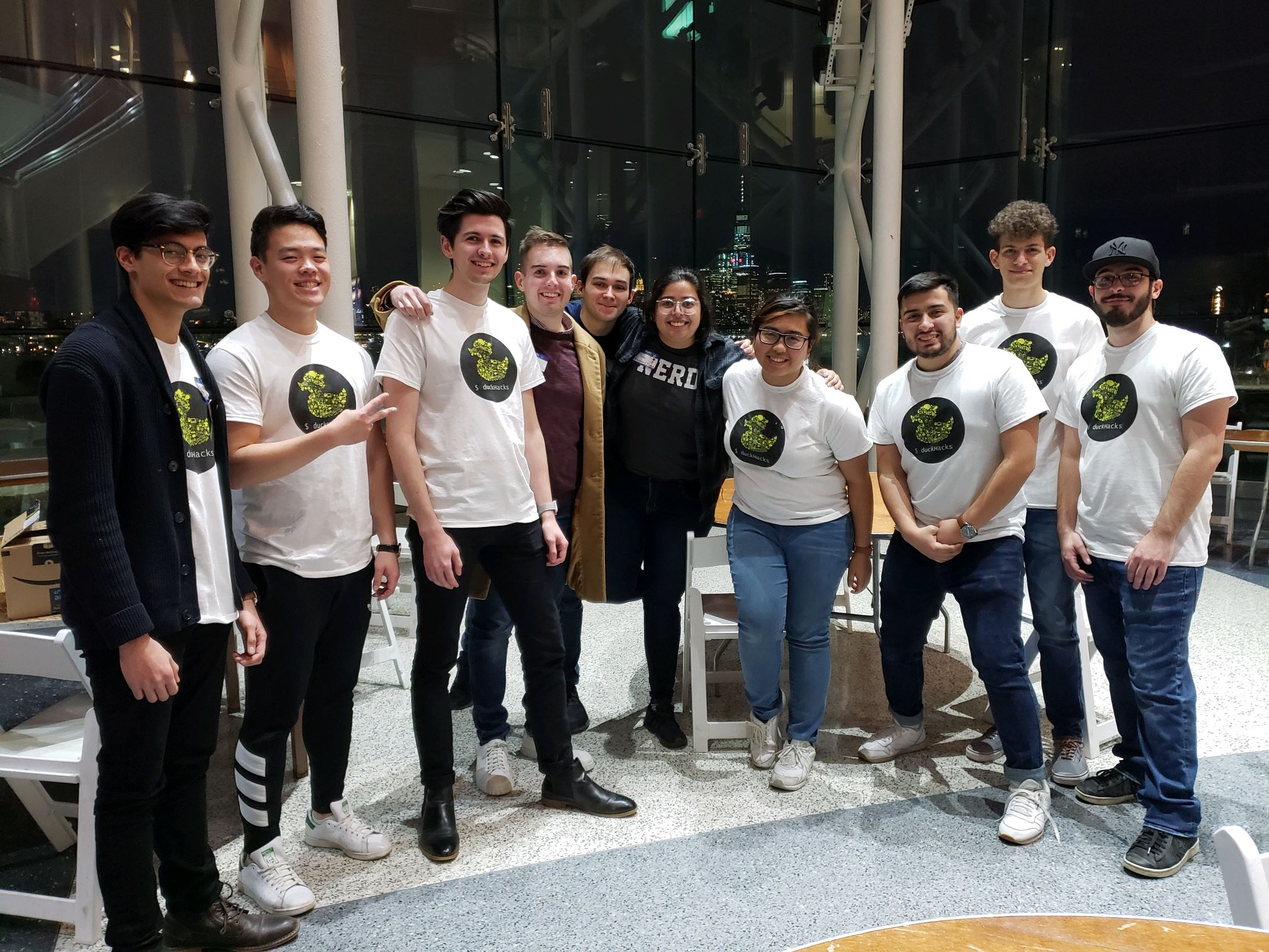
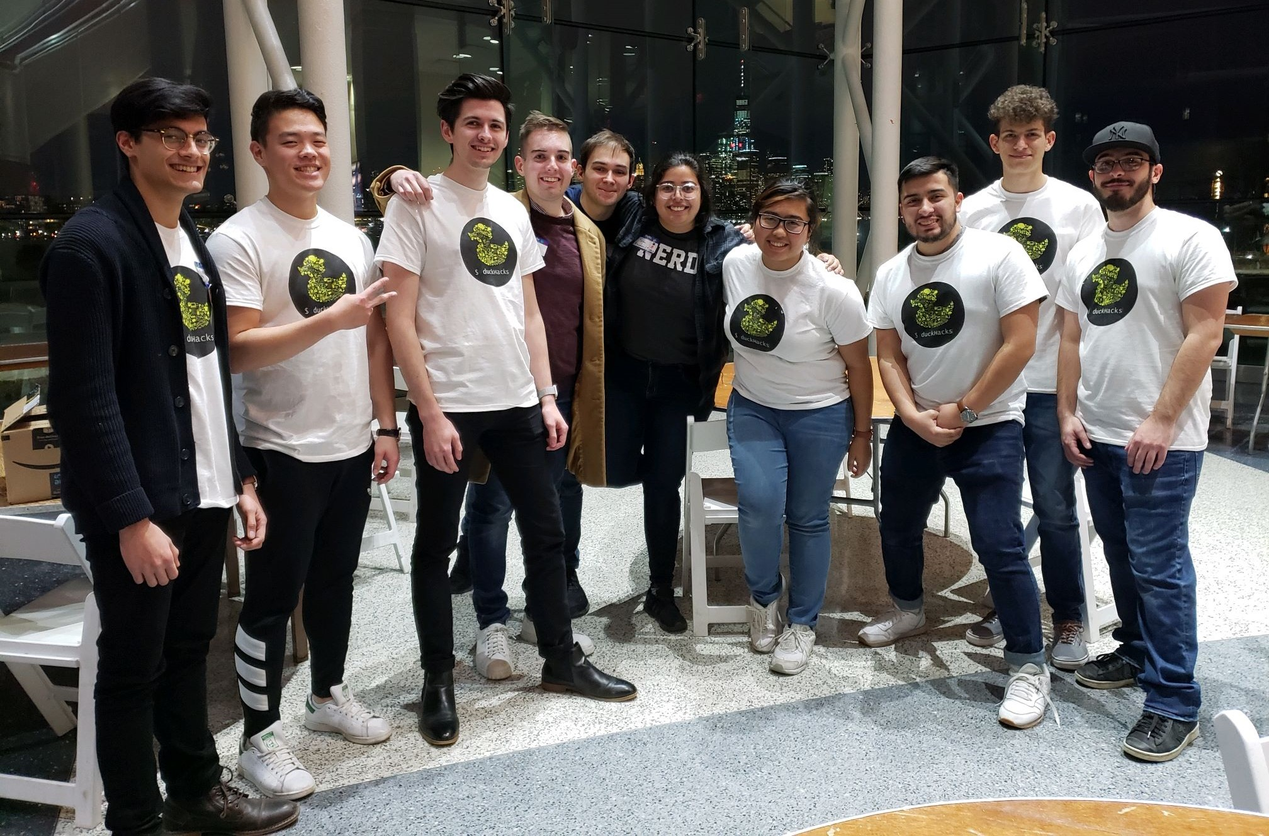
wrote why come to duckhacks section

diff --git a/index.html b/index.html
@@ -171,45 +171,62 @@
       <div class="container-fluid">
 
         <header class="section-header">
-          <h3>Why choose us?</h3>
-          <p>Laudem latine persequeris id sed, ex fabulas delectus quo. No vel partiendo abhorreant vituperatoribus.</p>
+          <h3>Why come to duckHacks 2020?</h3>
+          <p>duckHacks is back, and better than ever! Come through to the fifth rendition of this event!</p>
         </header>
 
         <div class="row">
 
           <div class="col-lg-6">
             <div class="why-us-img">
-              <img src="img/why-us.jpg" alt="" class="img-fluid">
+              <img src="img/duckhacks_2019.jpg" alt="" class="img-fluid">
             </div>
           </div>
 
           <div class="col-lg-6">
             <div class="why-us-content">
-              <p>Molestiae omnis numquam corrupti omnis itaque. Voluptatum quidem impedit. Odio dolorum exercitationem est error omnis repudiandae ad dolorum sit.</p>
-              <p>
-                Explicabo repellendus quia labore. Non optio quo ea ut ratione et quaerat. Porro facilis deleniti porro consequatur
-                et temporibus. Labore est odio.
+              <div class="features wow bounceInUp clearfix">
+                <i class="fa fa-object-group" style="color: #ffb774;"></i>
+                <h4>Build your ideas</h4>
+                <p>
+                  Have that idea that you never got around to making a project out of? Do you think you have a solution to a problem, but don't know where to start? 
+                  duckHacks is the perfect environment for executing that project, where talented hackers partner up with bright-eyed thinkers to implement new and exciting
+                  solutions.
+                </p>
+              </div>
 
-                Odio omnis saepe qui. Veniam eaque ipsum. Ea quia voluptatum quis explicabo sed nihil repellat..
-              </p>
+              <div class="features wow bounceInUp clearfix">
+                <i class="fa fa-black-tie" style="color: #589af1;"></i>
+                <h4>Get recognized</h4>
+                <p>
+                  This year, duckHacks has partnered with the Stevens Career Center to bring some of the top companies recruiting from Stevens to duckHacks!
+                  Make sure to bring your resume and your knowledge as you impress some of Stevens' top supporters and grow your own professonal network.
+                </p>
+              </div>
 
               <div class="features wow bounceInUp clearfix">
                 <i class="fa fa-diamond" style="color: #f058dc;"></i>
-                <h4>Corporis dolorem</h4>
-                <p>Commodi quia voluptatum. Est cupiditate voluptas quaerat officiis ex alias dignissimos et ipsum. Soluta at enim modi ut incidunt dolor et.</p>
+                <h4>Win prizes</h4>
+                <p>
+                  With four categories, and winner and runner-up prizes in each category, there are many opportunities to win something nice to take home with you after the event.
+                  Prizes will be themed for each category, and be announced in the near future.
+                </p>
               </div>
 
               <div class="features wow bounceInUp clearfix">
-                <i class="fa fa-object-group" style="color: #ffb774;"></i>
-                <h4>Eum ut aspernatur</h4>
-                <p>Molestias eius rerum iusto voluptas et ab cupiditate aut enim. Assumenda animi occaecati. Quo dolore fuga quasi autem aliquid ipsum odit. Perferendis doloremque iure nulla aut.</p>
+                <i class="fa fa-coffee" style="color: #ffffff;"></i>
+                <h4>Eat up</h4>
+                <p>
+                  We'll be providing free food for the duration of the event, with all the snacks you could ask for as well! Look out for midnight treats and plenty of
+                  caffeine to keep you going on your hack too.
+                </p>
               </div>
-
-              <div class="features wow bounceInUp clearfix">
-                <i class="fa fa-language" style="color: #589af1;"></i>
-                <h4>Voluptates dolores</h4>
-                <p>Voluptates nihil et quis omnis et eaque omnis sint aut. Ducimus dolorum aspernatur. Totam dolores ut enim ullam voluptas distinctio aut.</p>
+              <div class="wow bounceInUp">
+              <p>All of these and more are on offer at our annual duckHacks 2020 event. 
+                Get your project to the finish line to be judged on criteria such as originality, practicality, implementation, and presentation! 
+              </p>
               </div>
+              
 
             </div>
 
